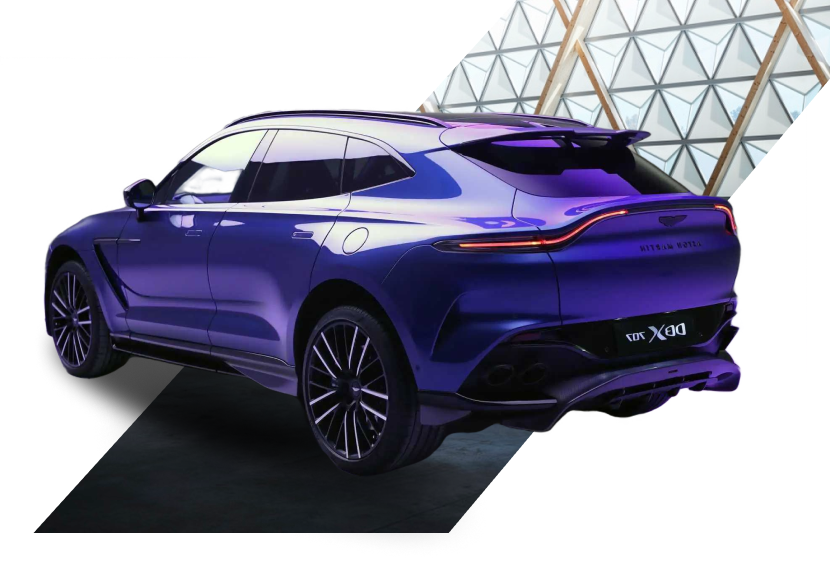
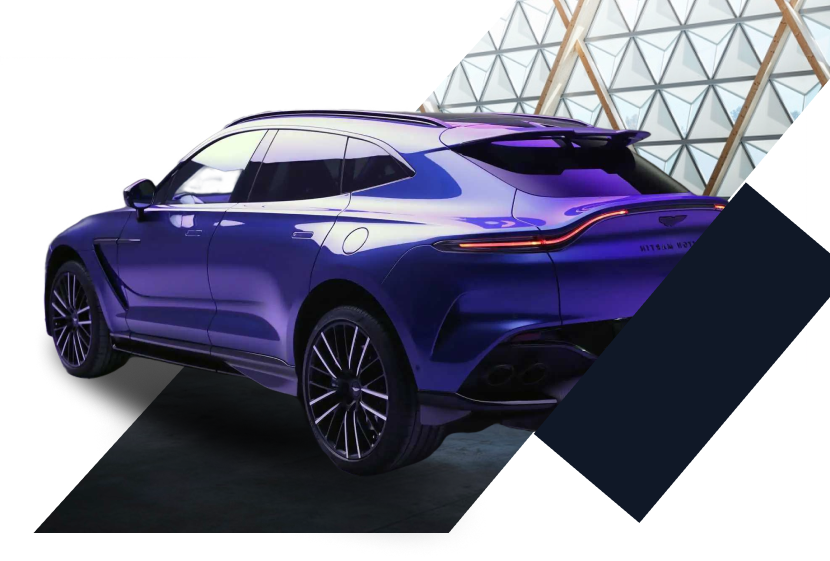
change image on home page and add arrow image

Changed region(s): [[0.6325, 0.3333, 1.0, 0.9394]]

diff --git a/src/app/page.tsx b/src/app/page.tsx
@@ -9,7 +9,10 @@ import SectionWhyChooseUs from '@/components/SectionWhyChooseUs';
 import SectionVideos from '@/components/SectionVideos';
 import SectionClientSay from '@/components/SectionClientSay';
 import Image from 'next/image';
-import carImg from '@/images/car-2.png';
+import arrowDownLightImg from '@/images/bg-figures/arrow-down.svg';
+import arrowDownDarkImg from '@/images/bg-figures/arrow-down-dark.svg';
+import carBackgroundDarkImg from '@/images/car-2.png';
+import carBackgroundLightImg from '@/images/car-2-light.png';
 import carsBackgroundDarkImg from '@/images/car-dark-1.png'
 import carsBackgroundLightImg from '@/images/car-dark-2.png'
 import triangleBackgroundImg from '@/images/bg-figures/triangle-1.png'
@@ -66,6 +69,13 @@ function PageHome() {
       {/* SECTION HERO */}
       <div className='relative container pt-12 xl:pt-14 pb-24 lg:pb-28'>
         <SectionHero />
+        <div className='hidden lg:block absolute -bottom-[10%] right-[48%]'>
+          <Image 
+            className='w-8 h-7'
+            alt='arrow down image' 
+            src={isDarkMode ? arrowDownLightImg : arrowDownDarkImg}  
+          />
+        </div>
       </div>
 
       <div className='container relative space-y-24 mb-0 sm:mb-24 lg:space-y-28 lg:mb-28 mt-40'>
@@ -80,7 +90,7 @@ function PageHome() {
           <div className='lg:max-w-[70%] xl:max-w-full absolute top-[80%] md:top-[65%] lg:top-20 xl:-top-10 -right-24'>
             <Image 
               alt='car image' 
-              src={carImg}  
+              src={isDarkMode ? carBackgroundDarkImg : carBackgroundLightImg}  
             />
           </div>
         </div>
